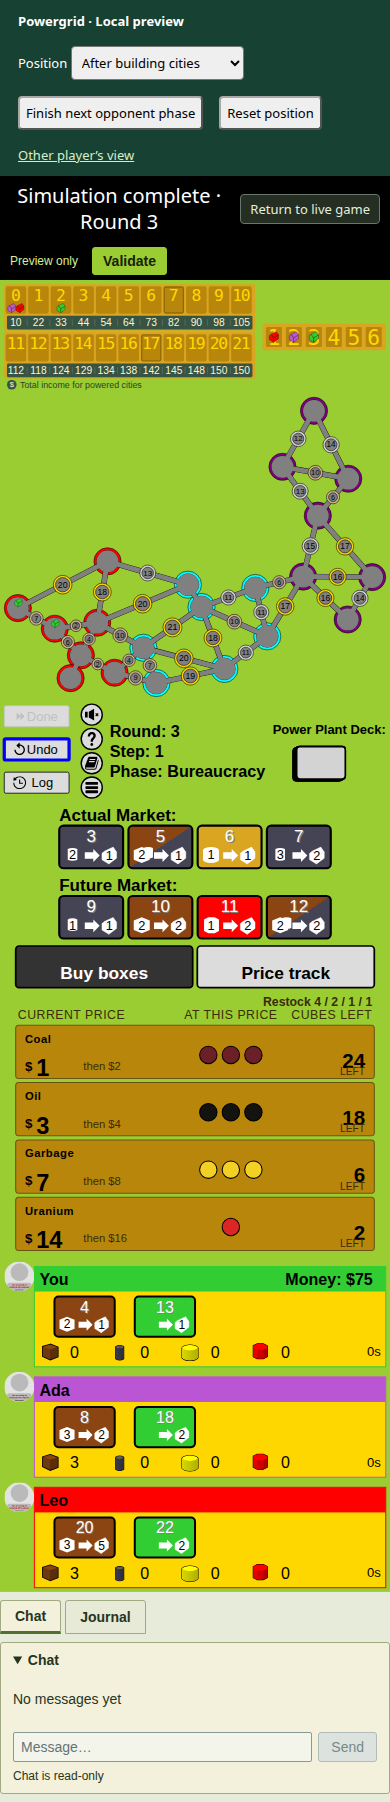
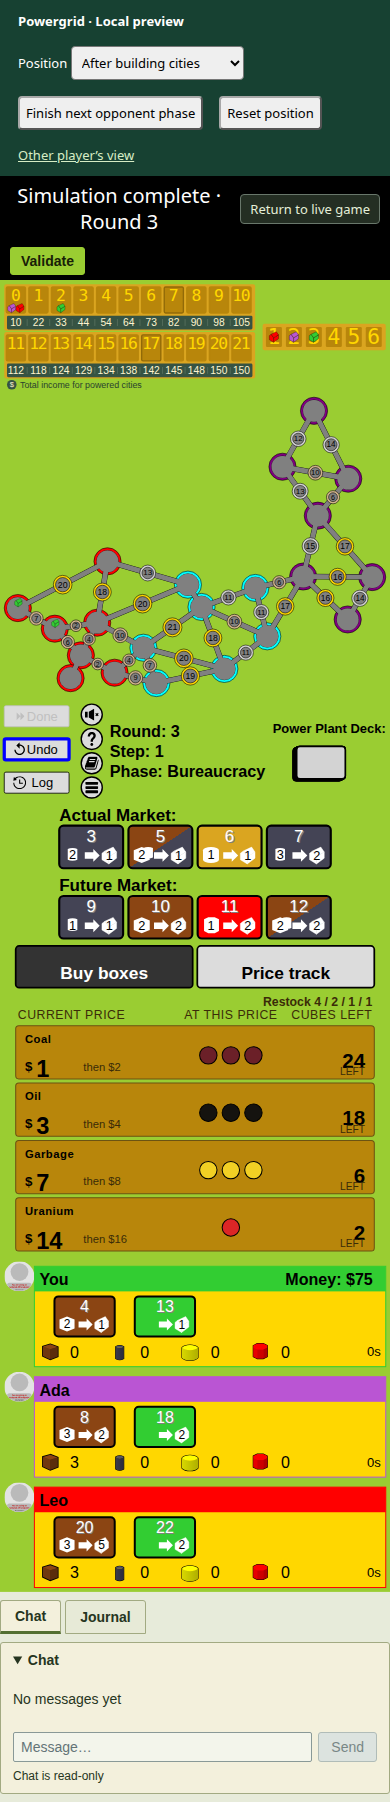
Remove redundant preview label from planning controls

diff --git a/viewer/src/components/RoundPlanner.vue b/viewer/src/components/RoundPlanner.vue
@@ -2,12 +2,10 @@
     <section class="round-planner" aria-label="Round planning">
         <template v-if="plan">
             <div class="planner-strip">
-                <div class="planner-controls">
-                    <span
-                        class="preview-label"
-                        title="Use the normal board controls. No move is sent until you confirm a queue. The preview does not predict hidden plant draws."
-                        >Preview only</span
-                    >
+                <div
+                    v-if="queueable || hasQueue || (plan.state.phase === 'Auction' && !discarding)"
+                    class="planner-controls"
+                >
                     <button v-if="plan.state.phase === 'Auction' && !discarding" @click="$emit('skip-plant')">
                         Continue without buying
                     </button>
@@ -125,11 +123,6 @@ button:disabled {
 button:focus-visible {
     outline: 2px solid #d7ed95;
     outline-offset: 2px;
-}
-.preview-label {
-    font-size: 12px;
-    color: #d7ed95;
-    margin-right: 4px;
 }
 .queue-hint {
     margin: 7px 0 0;
